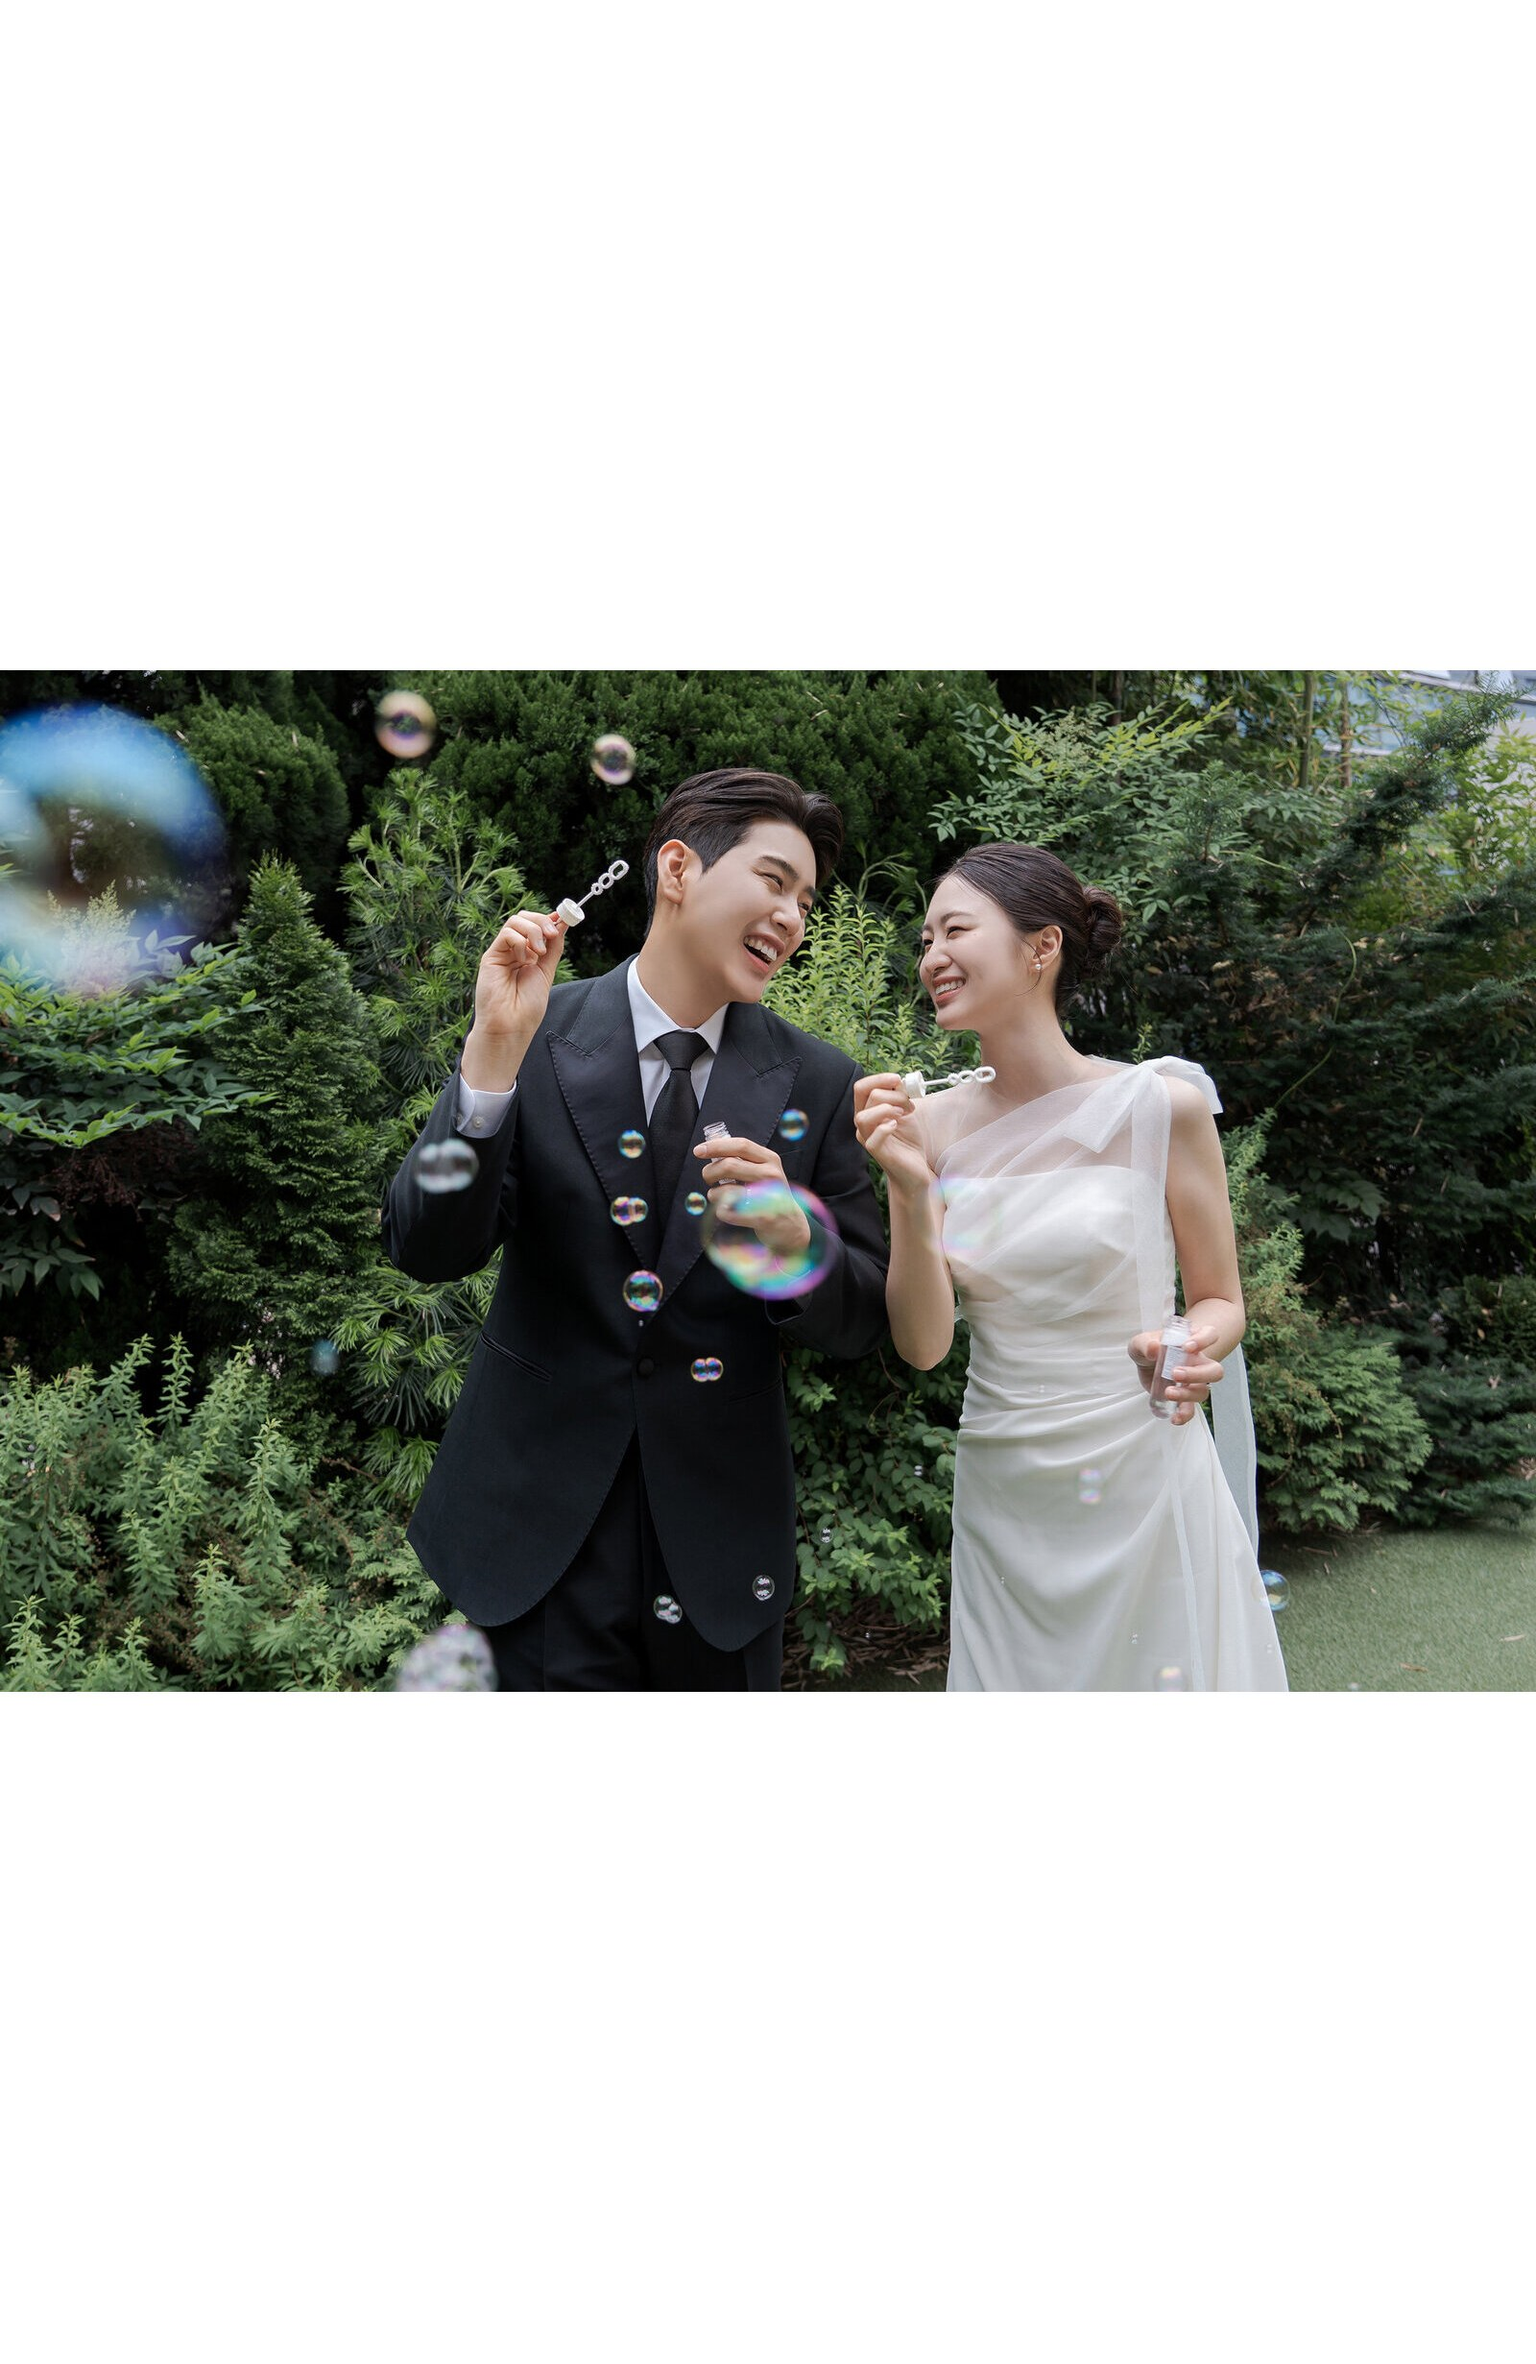
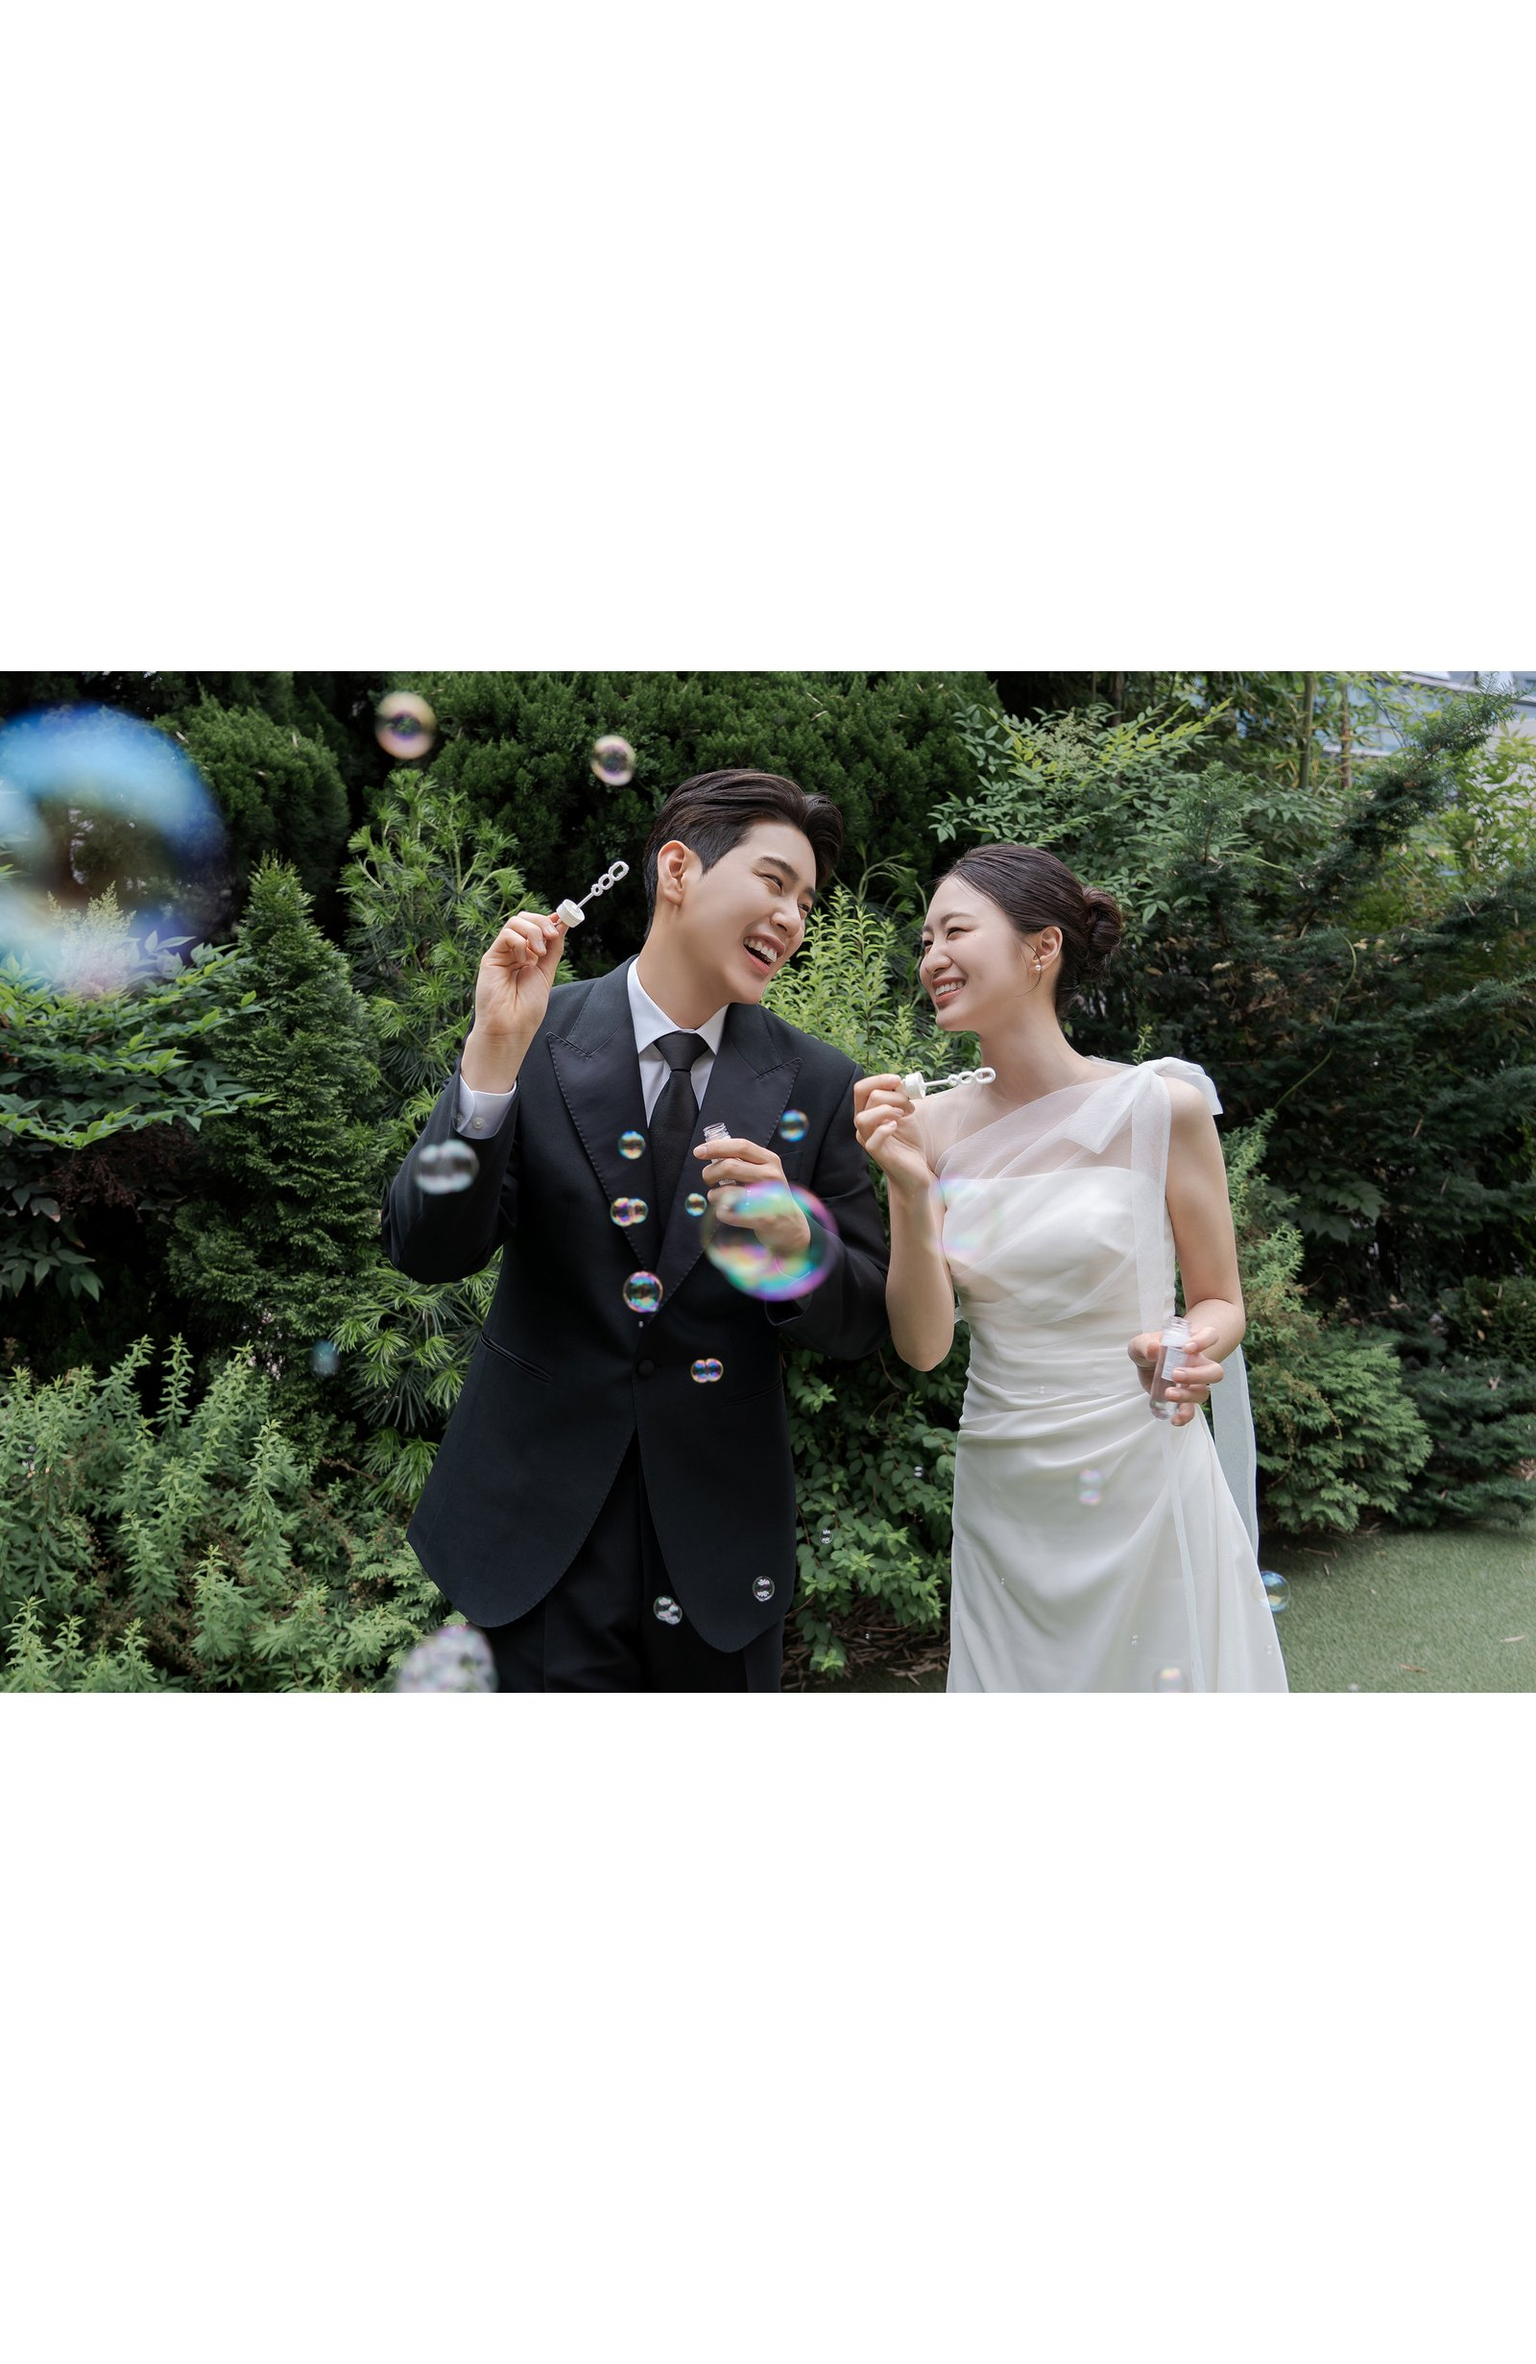
썸네일수정

diff --git a/script.js b/script.js
@@ -337,11 +337,14 @@
     }
 
     if (thumbsWrap) {
-      thumbsWrap.innerHTML = galleryImages.map((src, i) => `
+      thumbsWrap.innerHTML = galleryImages.map((src, i) => {
+        const thumbSrc = src.replace('images/gallery/', 'images/gallery/thumb/');
+        return `
         <div class="gallery__thumb${i === 0 ? ' is-active' : ''}" data-index="${i}">
-          <img src="${src}" alt="갤러리 사진 ${i + 1}" loading="lazy">
+          <img src="${thumbSrc}" onerror="this.onerror=null;this.src='${src}';" alt="갤러리 사진 ${i + 1}" loading="lazy">
         </div>
-      `).join('');
+      `;
+      }).join('');
 
       $$('.gallery__thumb', thumbsWrap).forEach((thumb) => {
         thumb.addEventListener('click', () => setGalleryIndex(Number(thumb.dataset.index)));
